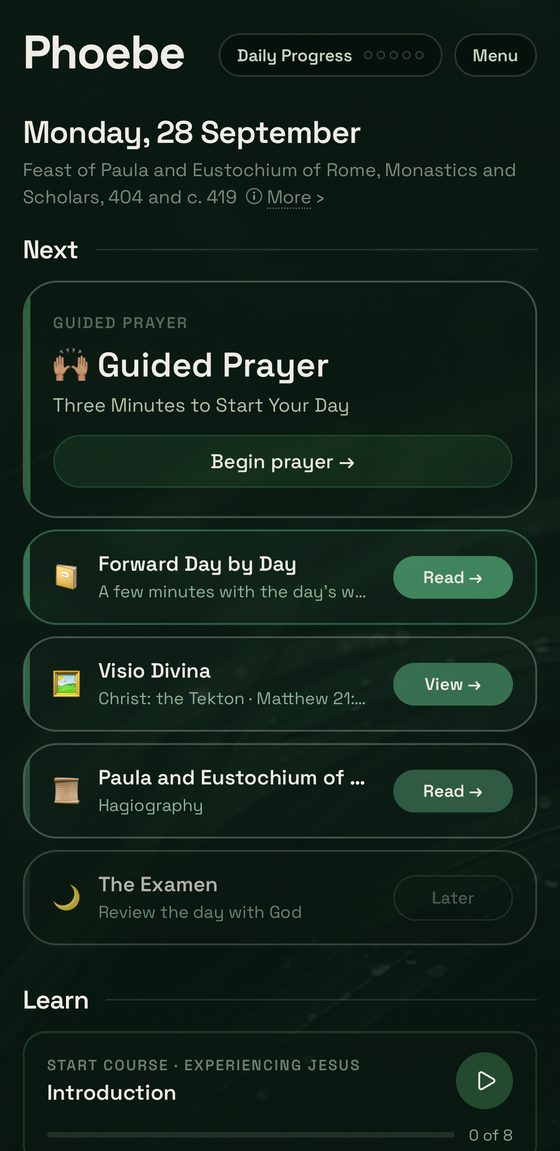
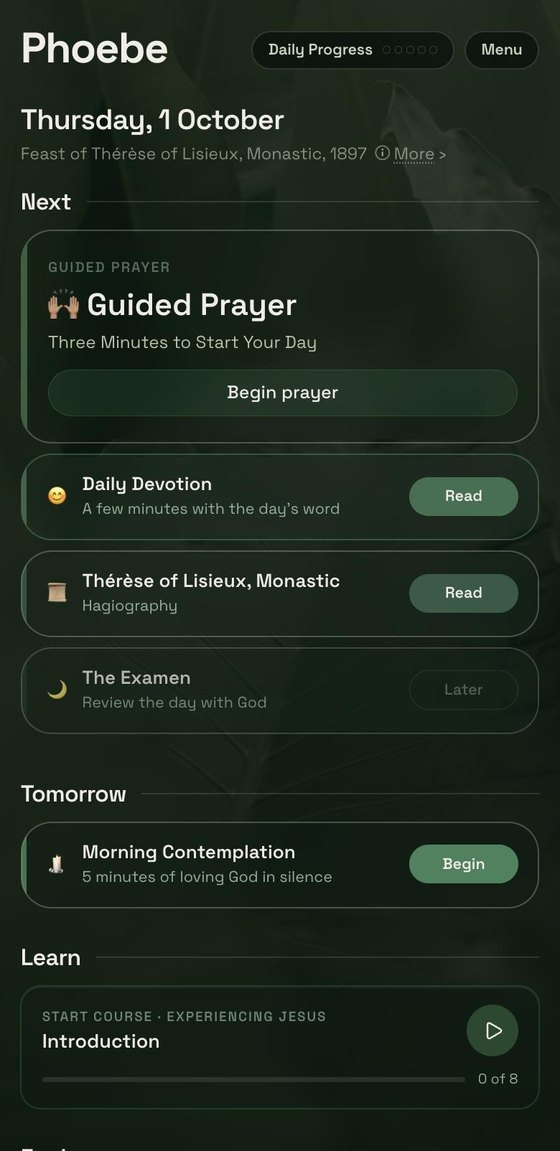
About: Back and Share pills held to the page's column, and a home mock that is today's
Owner, 2026-10-01: "do the same thing with the floating back" · "maybe also put
a share pill on the right" · "their is still issues with the about page back
button", after a phone screenshot of About whose phone mock still showed Monday
28 September, a Visio Divina card and Forward Day by Day.

THE BACK BUTTON WAS STILL WRONG ON A WIDE WINDOW. The bar had gone, but its
replacement was pinned 14px from the window's left edge: right on a phone, and
on a 1600px window alone in the far corner with the page centred a long way
off - the same complaint 46df7951 fixed for the old bar and which the
replacement had quietly reintroduced. It was also a faint 55% tint with no edge,
which vanishes over the hero. Now Back (left) and Share (right) are solid dark
pills with a hairline edge, held to the same 1080px column and side gutter the
framed page uses: Back at 308px and Share 308px from the other side at 1600
wide, 18px at 390. No backdrop-filter, deliberately - index.css restrokes any
blur-plus-border pair, which is what drew an edge along the old bar.

SHARE opens the system sheet where there is one (the iPhone app, mobile
browsers, Safari) with the link and one line of what Phoebe is; dismissing it
is not an error and goes nowhere. Where there is none it opens the app's Share
Phoebe page, which has the link and a QR code. Verified: that is where it lands.

THE MOCK IS CURRENT. landing/home.jpg is recaptured from a cleared device on
[…]

diff --git a/artifacts/mymonastery/src/pages/about.tsx b/artifacts/mymonastery/src/pages/about.tsx
@@ -16,32 +16,69 @@
 // is in git history; the slideshow still lives at /overview-deck, and Privacy
 // and Terms are in the page's footer.
 
+import type React from "react";
 import { useLocation } from "wouter";
 
 const BG = "#091A10";
 
 /**
- * NO BAR — JUST THE BACK BUTTON (owner, 2026-10-01: "get rid of the bar, just
- * have back button floating in the top left"), after "there is still that
- * border on the top and left of the back bar".
+ * NO BAR - TWO FLOATING PILLS: Back on the left, Share on the right (owner,
+ * 2026-10-01: "get rid of the bar, just have back button floating in the top
+ * left" · "do the same thing with the floating back" · "maybe also put a share
+ * pill on the right" · "their is still issues with the about page back button").
  *
- * THE BORDER WAS NOT ONE WE DREW. The bar carried a backdrop-filter and a
- * border, and index.css has an app-wide rule for exactly that pair — it
- * restrokes such elements at 1.5px and rebuilds the blur as an inset ::before,
- * so the chrome meant for frosted CARDS landed on a full-width bar and showed
- * as an edge along its top and left. Taking the bar away takes the rule's
- * target away with it; the button has no background, no border and no blur, so
- * nothing matches.
+ * WHAT WAS STILL WRONG. The bar had gone, but the button that replaced it was
+ * pinned 14px from the window's left edge - correct on a phone, and on a wide
+ * window alone in the far corner of a screen two thousand pixels across, with
+ * the page it belongs to centred a long way off. It was also a faint 55% tint
+ * with no edge, which disappears over the hero. So the two pills sit in the SAME
+ * column the framed page uses (max-width 1080, its own side gutter), so Back
+ * lines up with the content it goes back from, and each is a solid dark pill with
+ * a hairline edge.
+ *
+ * NO BLUR, ON PURPOSE. This used to be a full-width bar with a backdrop-filter
+ * and a border, and index.css restrokes any such pair at 1.5px and rebuilds the
+ * blur as an inset ::before - chrome meant for frosted CARDS - which showed as
+ * an edge along the bar's top and left. These pills carry a border but no
+ * backdrop-filter, so that rule has nothing to match.
  *
  * The framed page hides its own bar in this mode (html.embed in landing.html),
- * so without this button there is no way back — it is drawn by the app, over
- * the frame, and cannot scroll away with the page inside it.
+ * so without these there is no way back - they are drawn by the app, over the
+ * frame, and cannot scroll away with the page inside it. The row itself ignores
+ * pointer events, so the frame stays scrollable and tappable between the pills.
  */
+const PILL: React.CSSProperties = {
+  display: "inline-flex", alignItems: "center", gap: 8,
+  background: "rgba(5,14,9,0.82)", border: "1px solid rgba(200,212,192,0.22)",
+  borderRadius: 999, padding: "8px 18px", cursor: "pointer", pointerEvents: "auto",
+  color: "#F0EDE6", fontFamily: "'Space Grotesk', system-ui, sans-serif",
+  fontSize: 16, lineHeight: "24px", fontWeight: 600,
+};
+
+const SHARE_URL = "https://withphoebe.app";
+const SHARE_TEXT = "Phoebe: find stability in our turbulent world through monastic wisdom.";
+
 export default function AboutPage() {
   const [, setLocation] = useLocation();
   const back = () => {
     if (window.history.length > 1) window.history.back();
     else setLocation("/dashboard");
+  };
+  /**
+   * The system share sheet where there is one (the iPhone app, mobile browsers,
+   * Safari on a Mac); otherwise the app's own Share Phoebe page, which has the
+   * link and a QR code to scan. Dismissing the sheet is not an error and must
+   * not send anyone anywhere.
+   */
+  const share = async () => {
+    const nav = navigator as Navigator & { share?: (d: ShareData) => Promise<void> };
+    if (nav.share) {
+      try { await nav.share({ title: "Phoebe", text: SHARE_TEXT, url: SHARE_URL }); return; }
+      catch (e) {
+        if ((e as { name?: string })?.name === "AbortError") return;
+      }
+    }
+    setLocation("/invite/share");
   };
   return (
     <div style={{ position: "fixed", inset: 0, background: BG, zIndex: 40 }}>
@@ -54,20 +91,23 @@ export default function AboutPage() {
           display: "block", border: 0, background: BG,
         }}
       />
-      <button
-        type="button"
-        onClick={back}
+      <div
         style={{
-          position: "absolute", zIndex: 1,
-          top: "calc(var(--safe-top) + 12px)", left: 14,
-          background: "rgba(9,26,16,0.55)", border: "none", borderRadius: 999,
-          padding: "7px 14px", cursor: "pointer",
-          color: "#F0EDE6", fontFamily: "'Space Grotesk', system-ui, sans-serif",
-          fontSize: 16, lineHeight: "24px", fontWeight: 600,
+          position: "absolute", zIndex: 1, left: 0, right: 0, margin: "0 auto",
+          top: "calc(var(--safe-top) + 12px)", maxWidth: 1080,
+          paddingInline: "clamp(14px, 5vw, 48px)",
+          display: "flex", justifyContent: "space-between", alignItems: "center",
+          pointerEvents: "none",
         }}
       >
-        ← Back
-      </button>
+        <button type="button" onClick={back} style={PILL}>← Back</button>
+        <button type="button" onClick={share} style={PILL} aria-label="Share Phoebe">
+          <svg width="16" height="16" viewBox="0 0 16 16" fill="none" aria-hidden="true" focusable="false">
+            <path d="M8 10.5V2.5M8 2.5 5 5.5M8 2.5l3 3M3.5 8v4.5a1 1 0 0 0 1 1h7a1 1 0 0 0 1-1V8" stroke="currentColor" strokeWidth="1.6" strokeLinecap="round" strokeLinejoin="round" />
+          </svg>
+          Share
+        </button>
+      </div>
     </div>
   );
 }

diff --git a/artifacts/mymonastery/public/landing.html b/artifacts/mymonastery/public/landing.html
@@ -291,7 +291,7 @@
   </div>
   <div class="hero-stage" aria-hidden="true">
     <div class="phone side"><div class="screen"><div class="status"><span>9:41</span><span class="bars">●●● ▮</span></div><img src="/landing/office-slide1.jpg" width="560" height="1151" alt="Morning Prayer slide: the opening versicles" decoding="async"></div></div>
-    <div class="phone" id="heroPhone"><div class="screen"><div class="status"><span>9:41</span><span class="bars">●●● ▮</span></div><img src="/landing/home.jpg" width="560" height="1151" alt="Phoebe's home screen: today's date and feast, then Next: Guided Prayer, Forward Day by Day, Visio Divina, the saint of the day" decoding="async"></div></div>
+    <div class="phone" id="heroPhone"><div class="screen"><div class="status"><span>9:41</span><span class="bars">●●● ▮</span></div><img src="/landing/home.jpg" width="560" height="1151" alt="Phoebe's home screen: today's date and feast, then Next: Guided Prayer, Daily Devotion, the saint of the day, the Examen" decoding="async"></div></div>
     <div class="phone side"><div class="screen"><div class="status"><span>9:41</span><span class="bars">●●● ▮</span></div><img src="/landing/visio2.jpg" width="560" height="1151" alt="Visio Divina: Christ: the Tekton by Kelly Latimore, for Matthew 21:33-46" decoding="async"></div></div>
   </div>
   <div class="hero-fade"></div>
@@ -310,7 +310,7 @@
         <div class="num">Home</div>
         <h3>Today, in order</h3>
         <p>Open Phoebe and the day is already laid out: the date, the feast the church keeps, and your practices under Next, each one a tap away. What you've prayed moves down to Done.</p>
-        <div class="inline-phone" aria-hidden="true"><div class="phone"><div class="screen"><div class="status"><span>9:41</span><span class="bars">●●● ▮</span></div><img src="/landing/home.jpg" width="560" height="1151" alt="Phoebe's home screen: today's date and feast, then Next: Guided Prayer, Forward Day by Day, Visio Divina, the saint of the day" loading="lazy" decoding="async"></div></div></div>
+        <div class="inline-phone" aria-hidden="true"><div class="phone"><div class="screen"><div class="status"><span>9:41</span><span class="bars">●●● ▮</span></div><img src="/landing/home.jpg" width="560" height="1151" alt="Phoebe's home screen: today's date and feast, then Next: Guided Prayer, Daily Devotion, the saint of the day, the Examen" loading="lazy" decoding="async"></div></div></div>
       </article>
       <article class="tstep">
         <div class="num">Your routine</div>
@@ -328,7 +328,7 @@
     <div class="tour-stage" aria-hidden="true">
       <div class="phone">
         <div class="screen">
-          <div class="layer on"><div class="status"><span>9:41</span><span class="bars">●●● ▮</span></div><img src="/landing/home.jpg" width="560" height="1151" alt="Phoebe's home screen: today's date and feast, then Next: Guided Prayer, Forward Day by Day, Visio Divina, the saint of the day" loading="lazy" decoding="async"></div>
+          <div class="layer on"><div class="status"><span>9:41</span><span class="bars">●●● ▮</span></div><img src="/landing/home.jpg" width="560" height="1151" alt="Phoebe's home screen: today's date and feast, then Next: Guided Prayer, Daily Devotion, the saint of the day, the Examen" loading="lazy" decoding="async"></div>
           <div class="layer"><div class="status"><span>9:41</span><span class="bars">●●● ▮</span></div><img src="/landing/customize.jpg" width="560" height="1151" alt="Customize: start from a preset rhythm, then daily prayer, newsletter, silence and added practices" loading="lazy" decoding="async"></div>
           <div class="layer"><div class="status"><span>9:41</span><span class="bars">●●● ▮</span></div><img src="/landing/office-setup.jpg" width="560" height="1151" alt="Daily Prayer: choose the time of day, the practice, and how to pray" loading="lazy" decoding="async"></div>
         </div>
